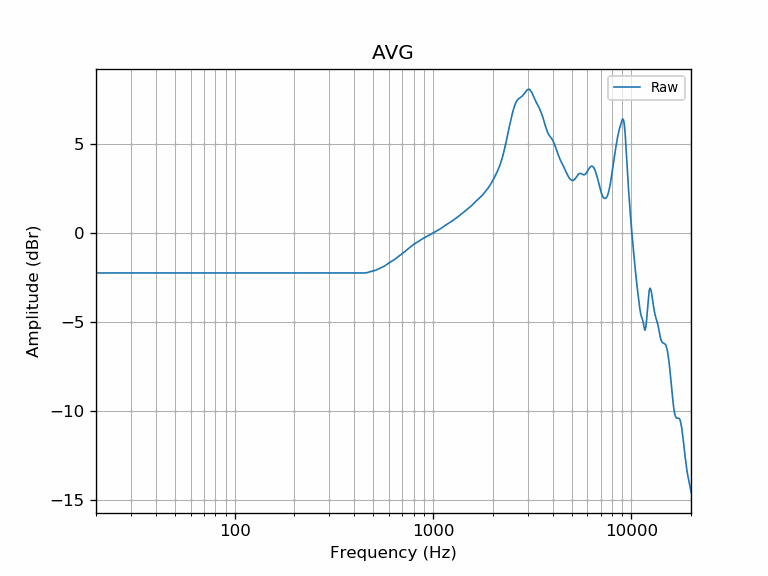
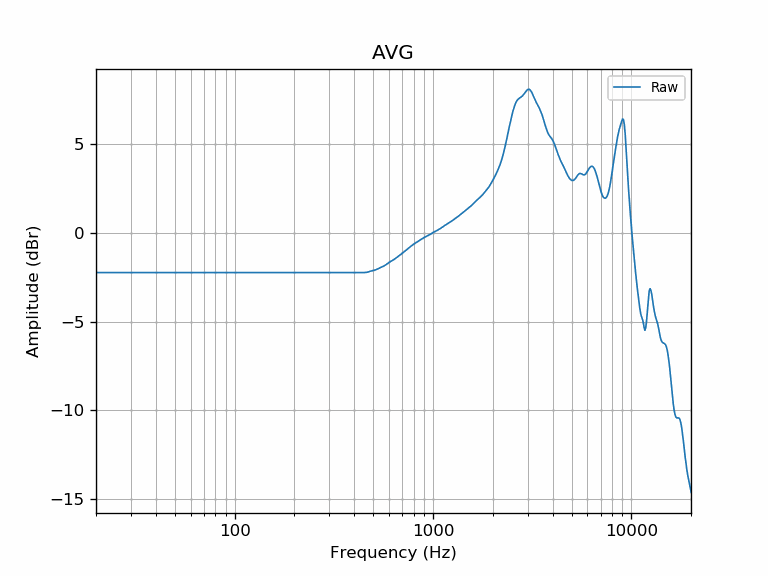
Rtings to update.py with all 3 targets. Fixed CSV read in FrequencyResponse when file name has unicode characters. Fixes to headphone readme.

diff --git a/frequency_response.py b/frequency_response.py
@@ -154,7 +154,8 @@ class FrequencyResponse:
         file_path = os.path.abspath(file_path)
         name = os.path.split(file_path)[-1].split('.')[0]
 
-        df = pd.read_csv(file_path, sep=',', header=0)
+        f = open(file_path)
+        df = pd.read_csv(f, sep=',', header=0)
         frequency = list(df['frequency']) if 'frequency' in df else None
         raw = list(df['raw']) if 'raw' in df else None
         error = list(df['error']) if 'error' in df else None
@@ -164,6 +165,7 @@ class FrequencyResponse:
         equalized_raw = list(df['equalized_raw']) if 'equalized_raw' in df else None
         equalized_smoothed = list(df['equalized_smoothed']) if 'equalized_smoothed' in df else None
         target = list(df['target']) if 'target' in df else None
+        f.close()
 
         return cls(
             name=name,
@@ -603,7 +605,7 @@ class FrequencyResponse:
             
             ### HeSuVi
             HeSuVi 2.0 ships with most of the pre-processed results. If this model can't be found in HeSuVi add
-            {model} GraphicEQ.txt to `C:\Program Files\EqualizerAPO\config\HeSuVi\eq\custom\` folder.
+            `{model} GraphicEQ.txt` to `C:\Program Files\EqualizerAPO\config\HeSuVi\eq\custom\` folder.
             Set volume attenuation in the Connection tab for both channels to **{i_preamp}**
             '''.format(
                 model=model,
@@ -669,7 +671,7 @@ class FrequencyResponse:
                     _s = 'When using independent subset of filters, apply preamp of {}, respectively.'
                     preamp_str = '-{g0:.1f}dB or -{g1:.1f}dB'.format(g0=max_gains[0], g1=max_gains[1])
                 if len(max_gains) == 2:
-                    _s = 'When using independent subset of filters, apply preamp of {}.'
+                    _s = 'When using independent subset of filters, apply preamp of **{}**.'
                     preamp_str = '-{:.1f}dB'.format(max_gains[0])
                 preamp_str = _s.format(preamp_str)
 

diff --git a/rtings/rtings_targets.py b/rtings/rtings_targets.py
@@ -9,10 +9,7 @@ from frequency_response import FrequencyResponse
 def measurements_avg():
     stack = []
     for file in glob('data/*/*/*.csv'):
-        try:
-            stack.append(FrequencyResponse.read_from_csv(file).raw)
-        except:
-            continue
+        stack.append(FrequencyResponse.read_from_csv(file).raw)
     return FrequencyResponse(name='AVG', raw=np.mean(np.vstack(stack), axis=0))
 
 